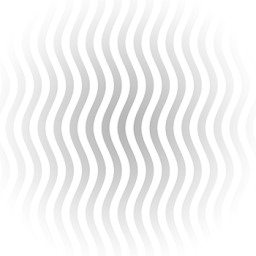
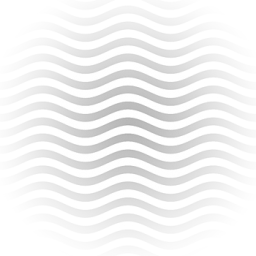
Tweaked SAF force

Changed region(s): [[0.125, 0.125, 0.875, 0.8438]]

diff --git a/ICGame/Content/Materials/SafMaterial.cs b/ICGame/Content/Materials/SafMaterial.cs
@@ -14,7 +14,8 @@ namespace VertexArmy.Content.Materials
 			Effect effect = Platform.Instance.Content.Load<Effect>( @"effects\saf" );
 			material.Effect = effect;
 
-			material.AddParameter(Material.ColorMap, Platform.Instance.Content.Load<Texture2D>("images/waves"));
+			material.AddParameter( Material.ColorMap, Platform.Instance.Content.Load<Texture2D>( "images/waves-noalpha" ) );
+			material.AddParameter( "AlphaMap", Platform.Instance.Content.Load<Texture2D>( "images/waves" ) );
 			
 				
 			material.AddParameter( "matWorldViewProj", Matrix.Identity );

diff --git a/ICGame/Graphics/Attachables/SafAttachable.cs b/ICGame/Graphics/Attachables/SafAttachable.cs
@@ -45,7 +45,7 @@ namespace VertexArmy.Graphics.Attachables
 
 			
 			Material.SetParameter( "fTime", _fTime += dt);
-			Material.SetParameter( "fVel", new Vector2(0.0001f, 0.0001f) );
+			Material.SetParameter( "fVel", new Vector2(0.0000f, 0.0001f) );
 			Material.SetParameter( "fAlpha", 0.2f);
 
 

diff --git a/ICGame/MainGame.cs b/ICGame/MainGame.cs
@@ -42,7 +42,7 @@ namespace VertexArmy
 #elif MODEL_VIEW
 			StateManager.Instance.ChangeState( GameState.ModelView );
 #else
-			StateManager.Instance.ChangeState( GameState.Menu );
+			StateManager.Instance.ChangeState( GameState.TutorialLevel );
 #endif
 		}
 
